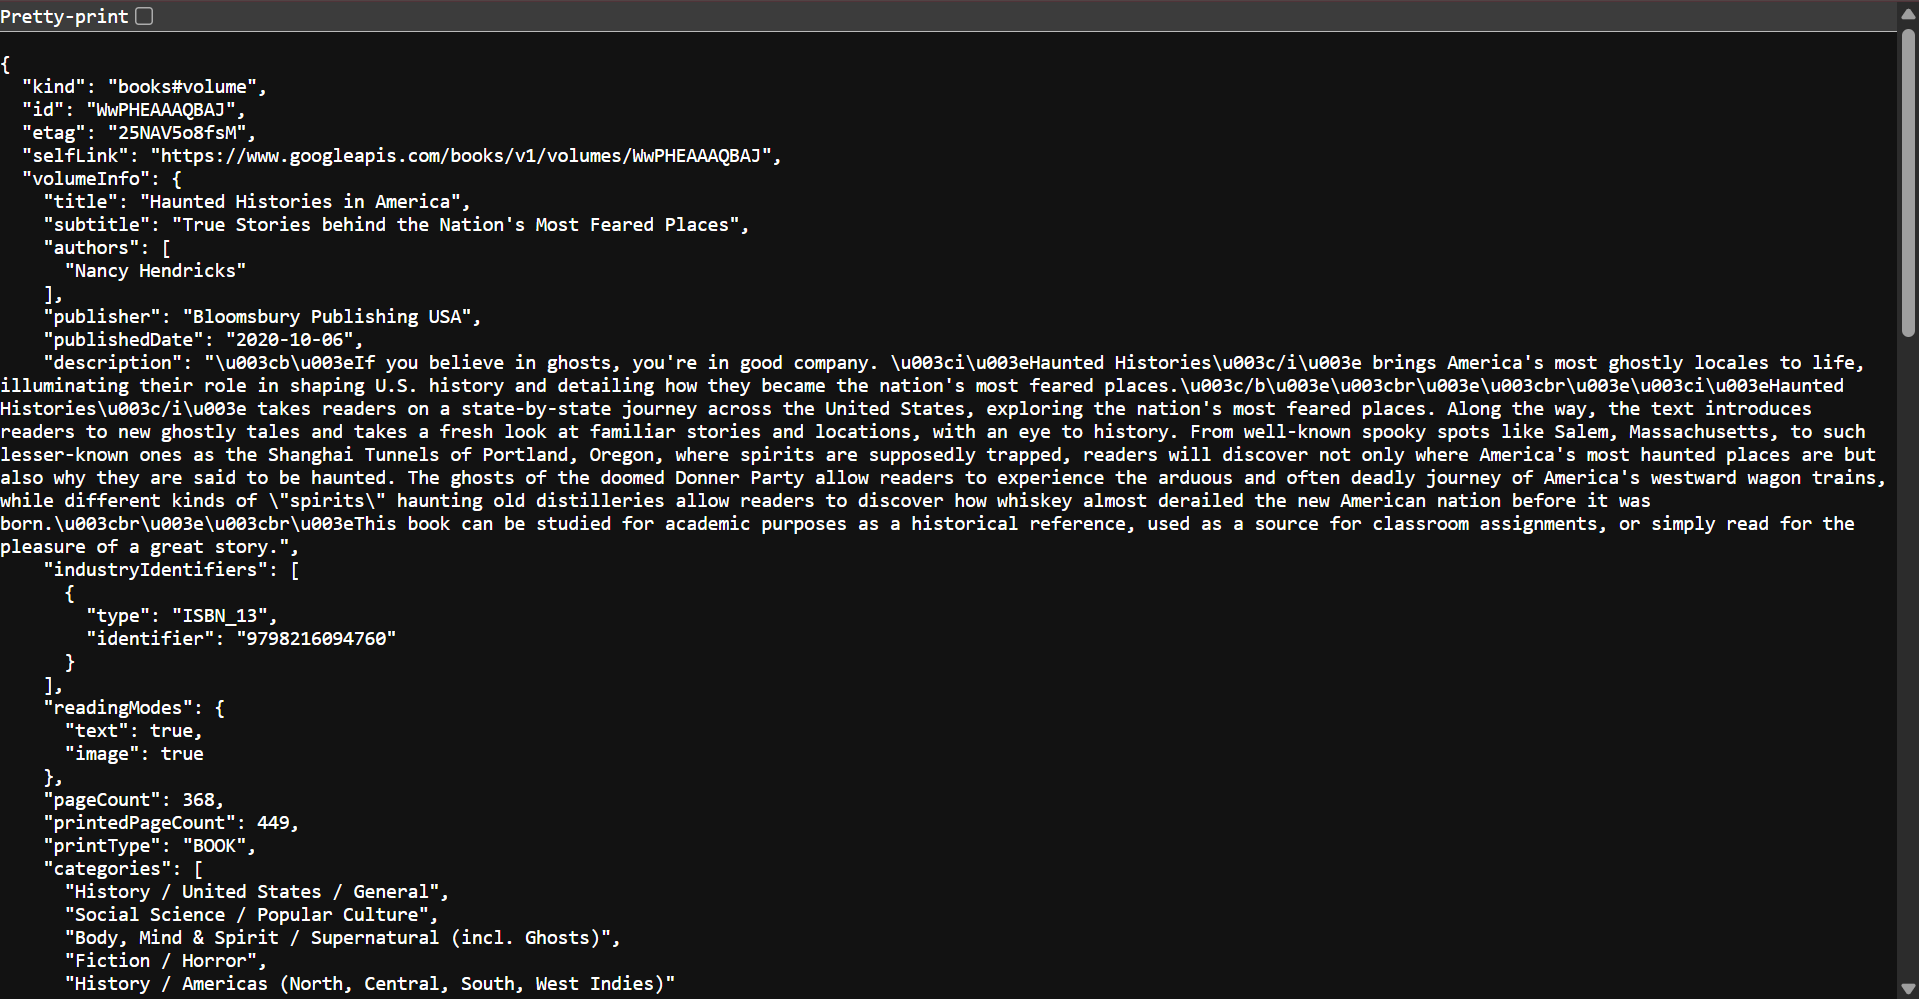
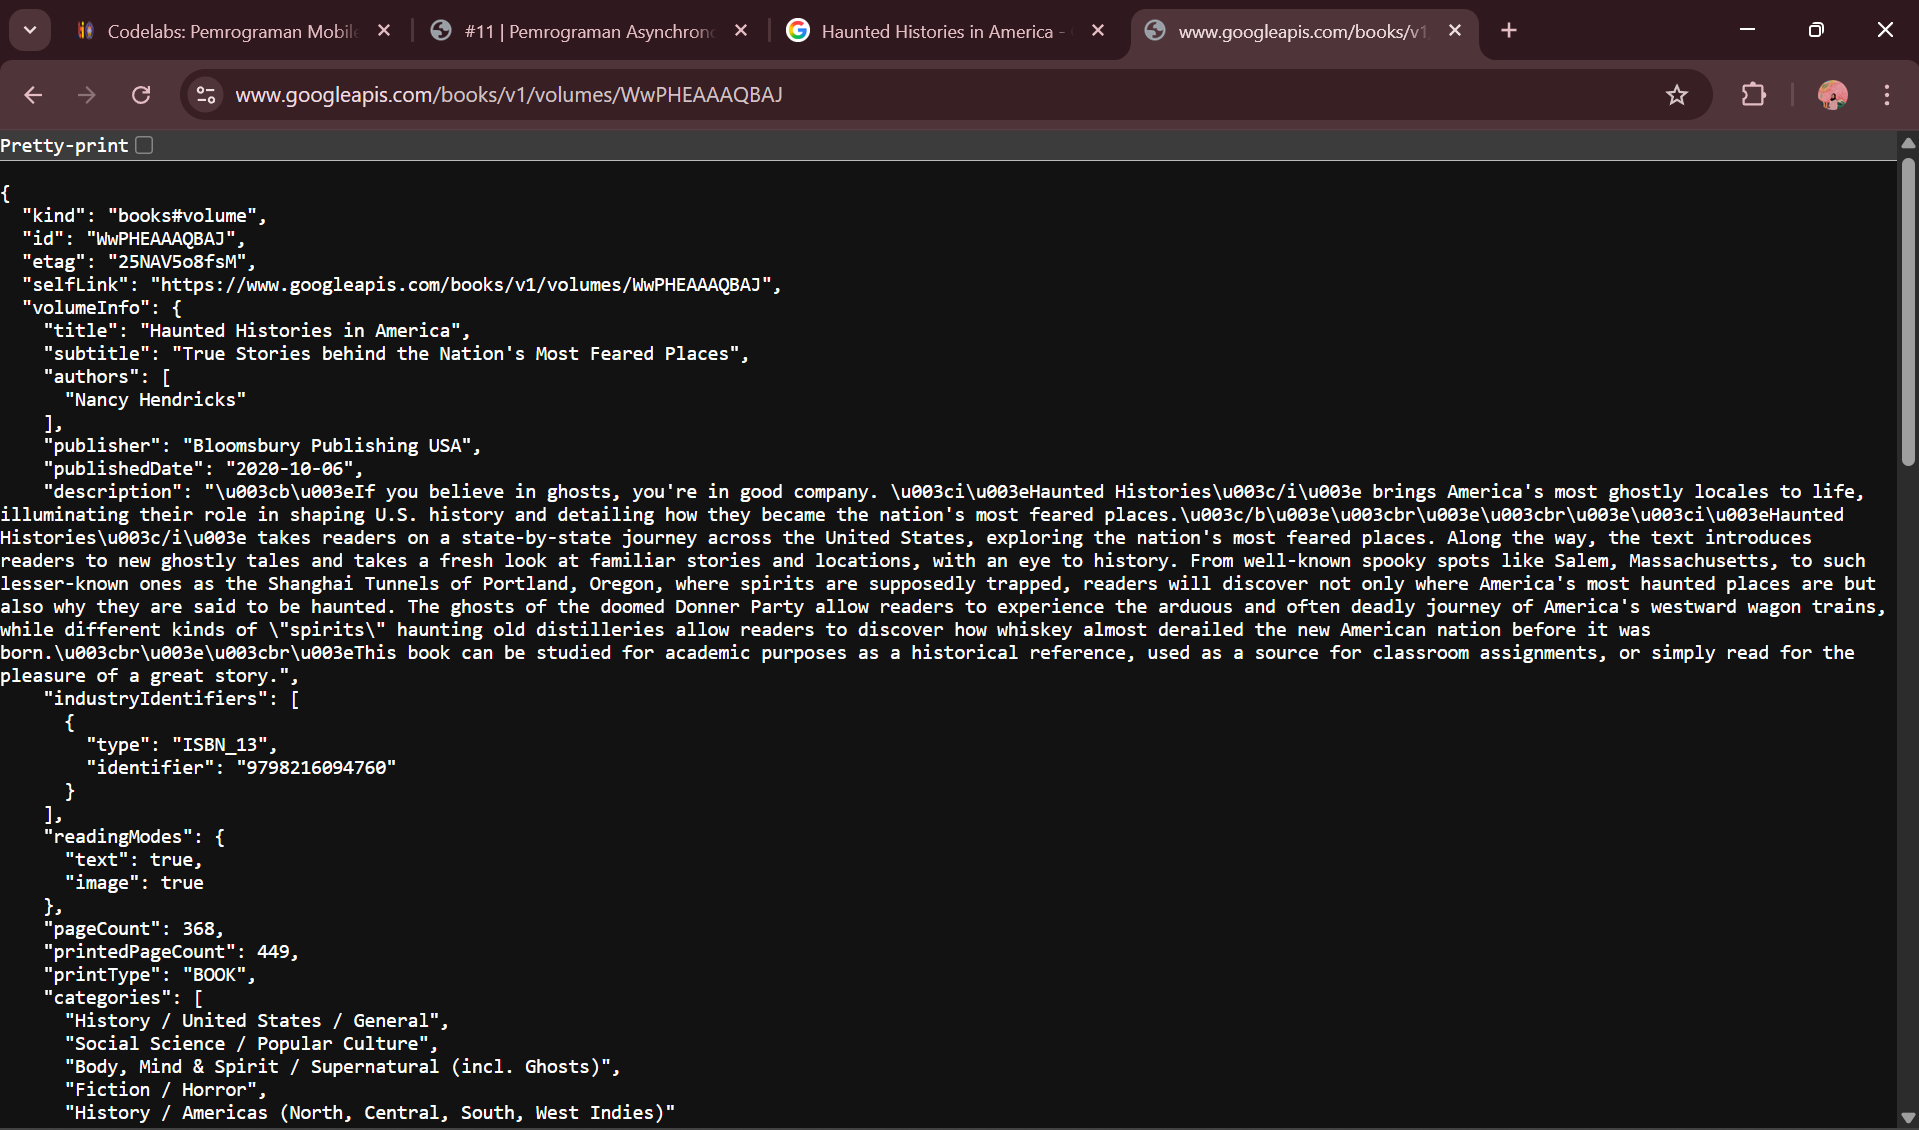
W11: Soal 3

Changed region(s): [[0.0, 0.0, 1.0, 1.0]]

diff --git a/codelab11_flutterCodelab/books/lib/main.dart b/codelab11_flutterCodelab/books/lib/main.dart
@@ -49,7 +49,20 @@ class _FuturePageState extends State<FuturePage> {
           const Spacer(),
           ElevatedButton(
             child: const Text('GO!'),
-            onPressed: () {},
+            onPressed: () {
+              setState(() {});
+              getData().then((value) {
+                setState(() {
+                  result = value.body
+                      .toString()
+                      .substring(0, value.body.length.clamp(0, 450));
+                });
+              }).catchError((_) {
+                setState(() {
+                  result = 'An error occurred';
+                });
+              });
+            },
           ),
           const Spacer(),
           Text(result),

diff --git a/codelab11_flutterCodelab/README.md b/codelab11_flutterCodelab/README.md
@@ -1,12 +1,12 @@
 
 ### Soal 1
 * Tambahkan nama panggilan Anda pada **title** app sebagai identitas hasil pekerjaan Anda.
-```dart
-return Scaffold(
-      appBar: AppBar(
-        title: const Text('Back from the Future Fatikah'),
-      ),
-```
+    ```dart
+    return Scaffold(
+        appBar: AppBar(
+            title: const Text('Back from the Future Fatikah'),
+        ),
+    ```
 
 ### Soal 2
 * Carilah judul buku favorit Anda di Google Books, lalu ganti ID buku pada variabel path di kode tersebut. Caranya ambil di URL browser Anda seperti gambar berikut ini.
@@ -15,3 +15,20 @@ return Scaffold(
 * Kemudian cobalah akses di browser URI tersebut dengan lengkap seperti ini. Jika menampilkan data JSON, maka Anda telah berhasil. Lakukan capture milik Anda dan tulis di README pada laporan praktikum. Lalu lakukan commit dengan pesan "W11: Soal 2".
 ![alt text](img/image1.png)
     - ![alt text](img/image2.png)
+    ```dart
+            Future<http.Response> getData() async {
+        const authority = 'www.googleapis.com';
+        const path = '/books/v1/volumes/WwPHEAAAQBAJ';
+        final url = Uri.https(authority, path);
+        return await http.get(url);
+        }
+    ```
+
+### Soal 3
+
+* Jelaskan maksud kode langkah 5 tersebut terkait substring dan catchError!
+    - **substring**, digunakan untuk Membatasi teks hasil API agar tidak lebih dari 450 karakter dan mencegah error.
+    - **catchError**, digunakan untuk Menangani error jika proses **getData()** gagal (misalnya jaringan bermasalah).
+
+* Capture hasil praktikum Anda berupa GIF dan lampirkan di README. Lalu lakukan commit dengan pesan "W11: Soal 3".
+![alt text](img/S3.gif)
